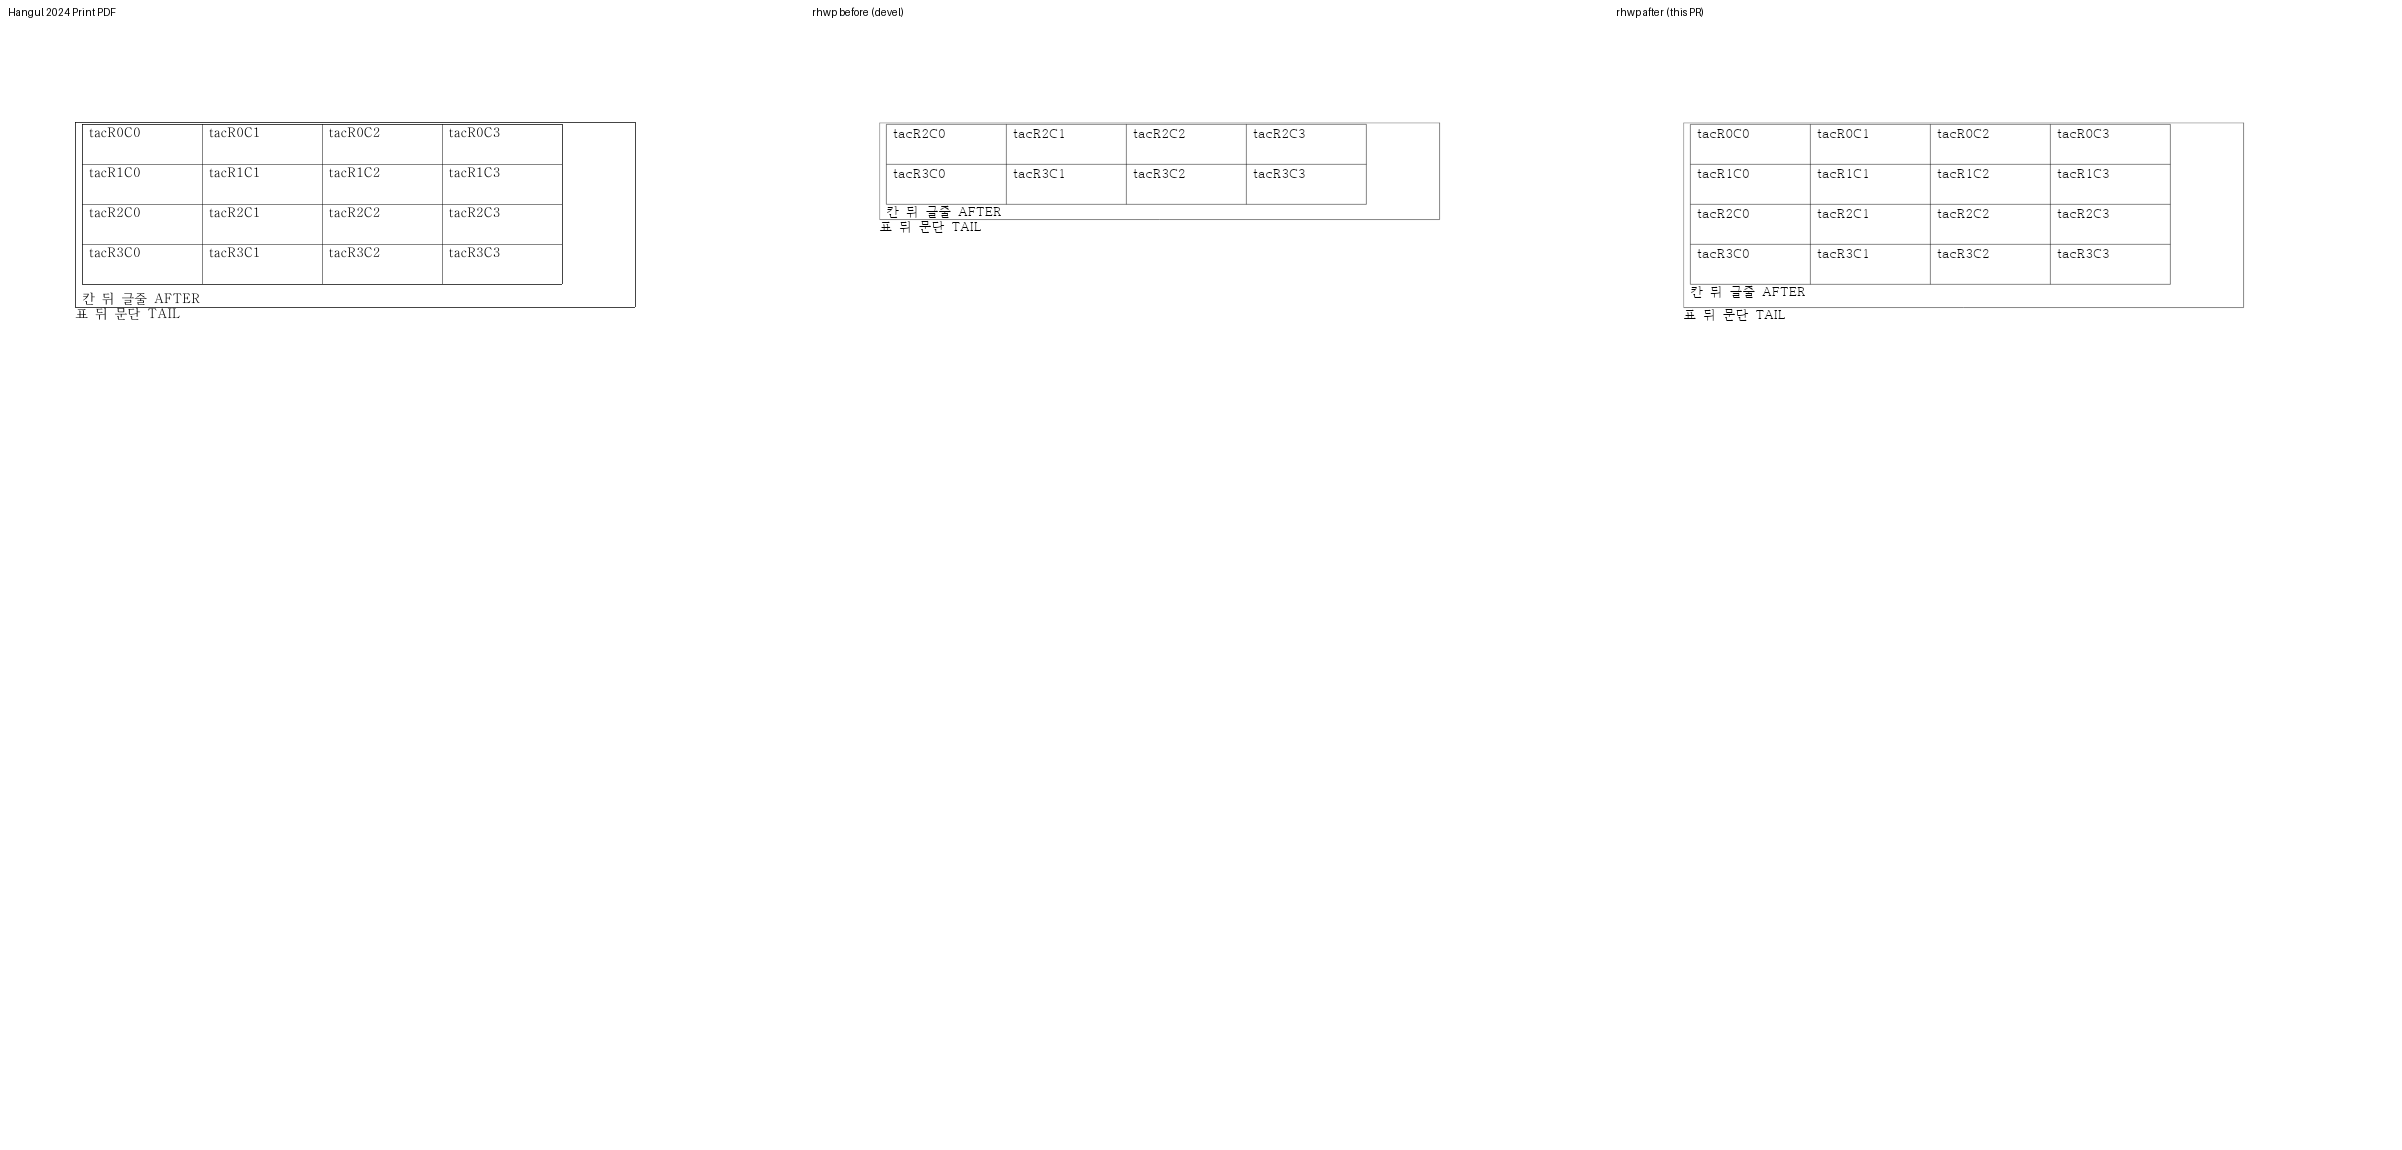
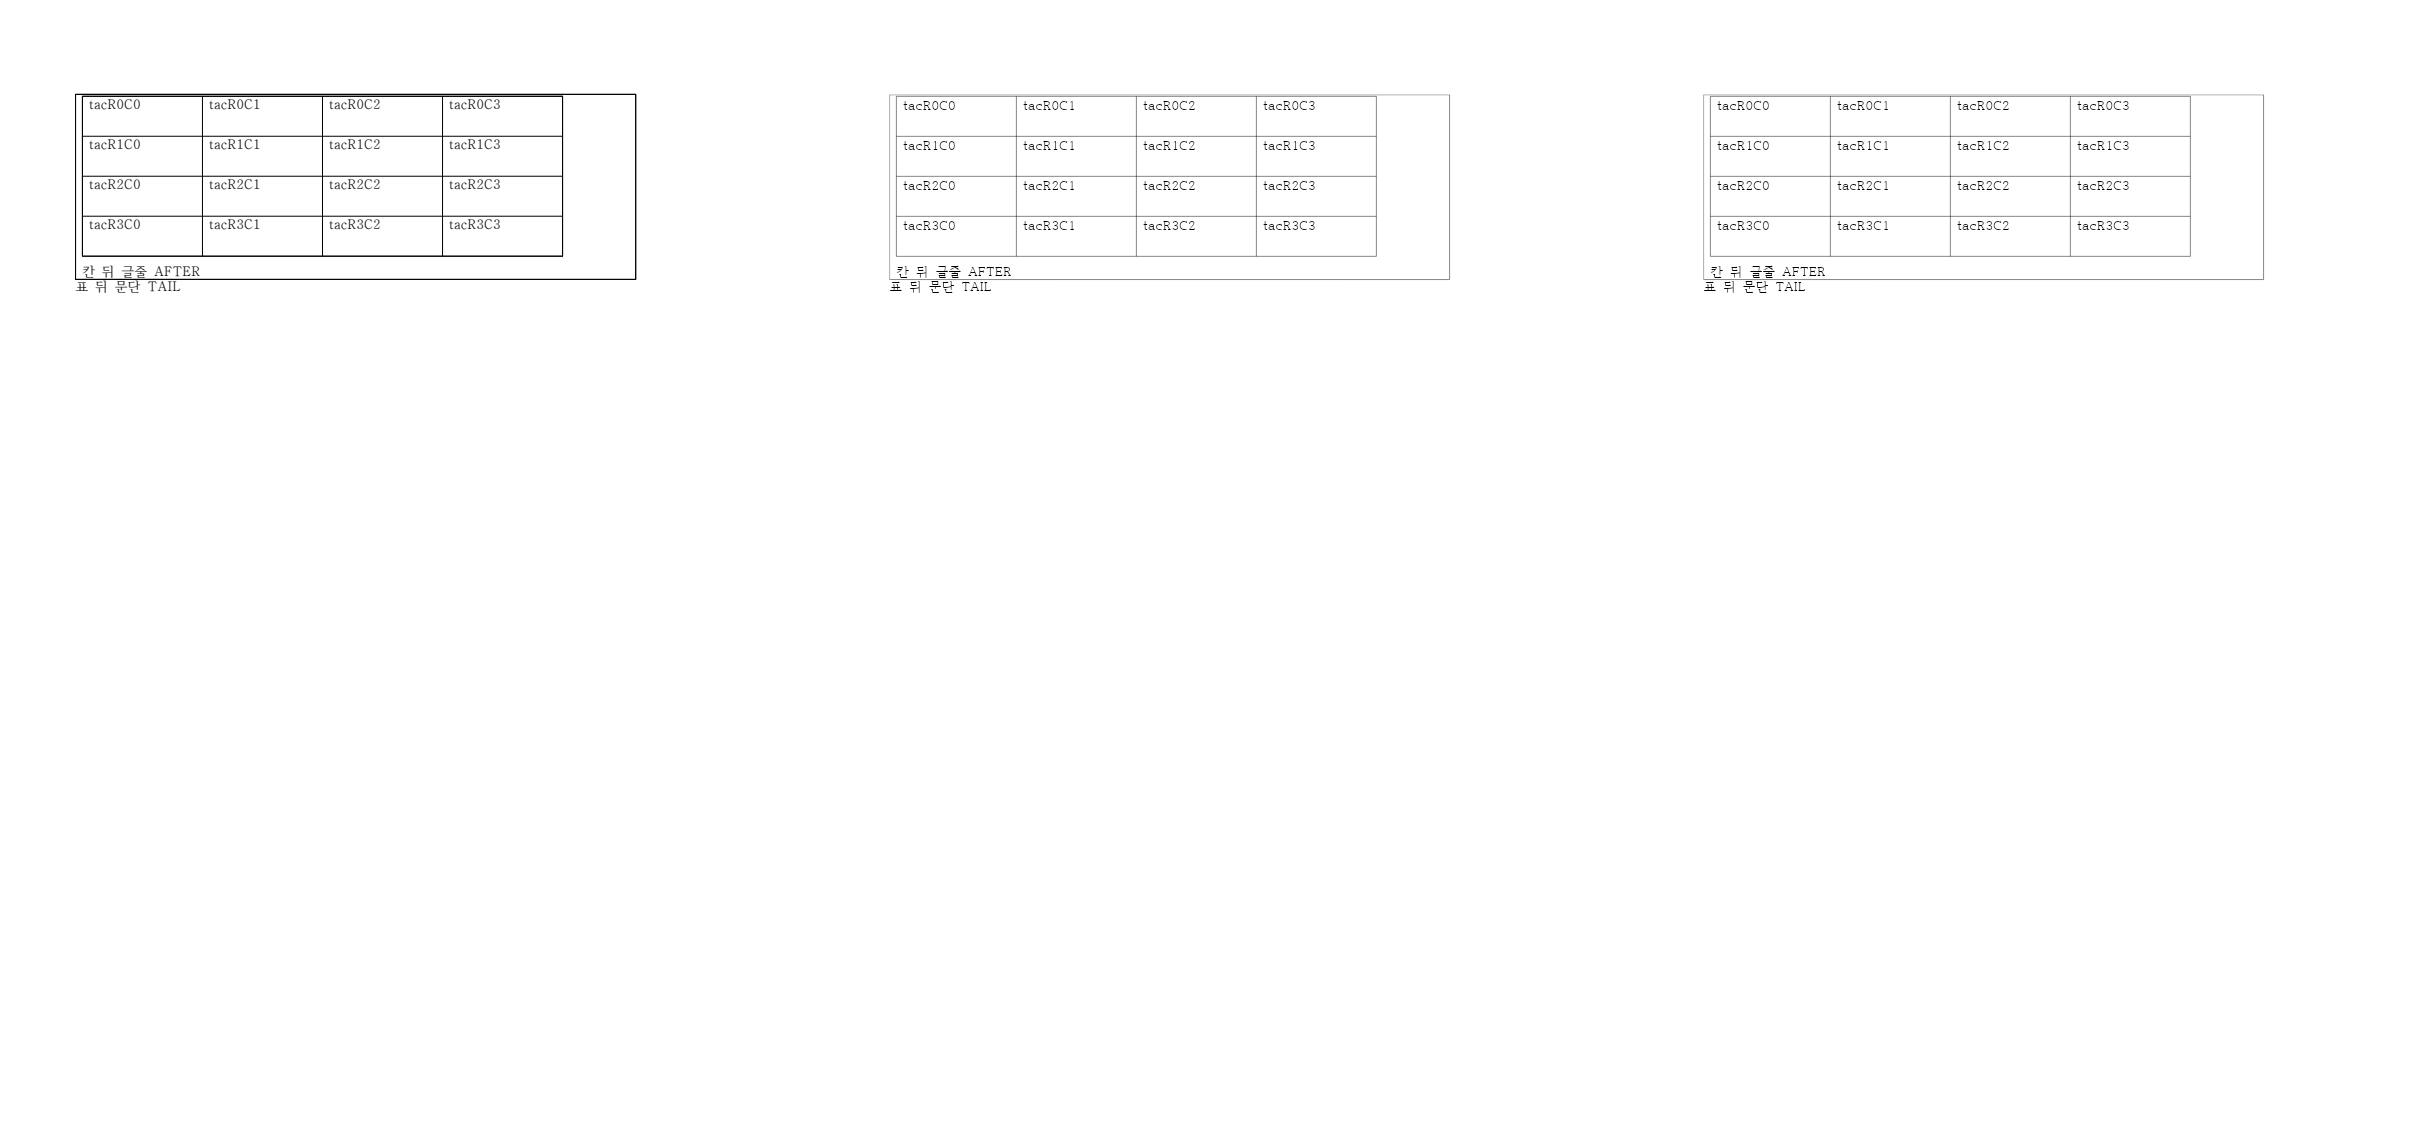
fix: 쪽 경계에서 나뉜 재조판 행의 첫 조각은 선언 행 높이를 차지
한/글 2024 는 내용이 선언보다 큰 재조판 행이 쪽 경계에서 처음 나뉠 때
첫 조각을 min(쪽 남은 공간, 선언 행 높이)로 그리고, 이어받는 조각에는
남은 내용만 둔다(합성 tac_37 선언 20·40·80·120px 첫 조각이 그 높이,
160px 은 본문 바닥에서 멈춤). rhwp 는 첫 조각을 내용 높이로 닫아
tac_37 1쪽 바깥 칸이 8px 짧았다.

- reflow_row_declared_first_frame: 독립 최소가 없는 재조판 행의 선언 높이
- scan: 첫 조각 수용 높이를 선언 높이(남은 쪽 한도)까지 예약, 잔여 띠는 넘기지 않음
- paint: 그 예약 높이를 수용 행 상자 소유로 보아 접지 않음
- 선언이 내용 전체보다 큰 행은 기존 독립 최소 갈래가 소유하므로 제외

diff --git a/tests/cases/issue_7870_tac_nested_table_atomic.rs b/tests/cases/issue_7870_tac_nested_table_atomic.rs
@@ -70,6 +70,72 @@ fn tac_nested_table_moves_whole_line_to_next_page() {
     );
 }
 
+/// 바깥 1×1 표의 저장 선언 행 높이(`hp:cellSz` height, HWPUNIT).
+fn declared_outer_row_height_hu(sample: &str) -> f64 {
+    use std::io::Read;
+    let path = std::path::Path::new(env!("CARGO_MANIFEST_DIR")).join(sample);
+    let mut zip = zip::ZipArchive::new(std::fs::File::open(path).expect("open")).expect("zip");
+    let mut xml = String::new();
+    zip.by_name("Contents/section0.xml")
+        .expect("section0")
+        .read_to_string(&mut xml)
+        .expect("utf-8");
+    // 바깥 칸은 본문 폭(42000)이고 중첩 표 칸은 9000 이다.
+    let cell_size = xml
+        .find("<hp:cellSz width=\"42000\"")
+        .expect("바깥 칸 크기");
+    let height = &xml[cell_size..];
+    let start = height.find("height=\"").unwrap() + 8;
+    let end = start + height[start..].find('"').unwrap();
+    height[start..end].parse().unwrap()
+}
+
+/// 쪽마다 바깥 1×1 표 칸 조각의 (위, 높이).
+fn outer_cell_fragments(sample: &str) -> Vec<Option<(f64, f64)>> {
+    let path = std::path::Path::new(env!("CARGO_MANIFEST_DIR")).join(sample);
+    let doc = HwpDocument::from_bytes(&std::fs::read(&path).expect("read")).expect("표본 파싱");
+    fn find(node: &Value) -> Option<(f64, f64)> {
+        if node["type"] == "Table" && node["rows"] == 1 && node["cols"] == 1 {
+            let cell = node["children"]
+                .as_array()?
+                .iter()
+                .find(|child| child["type"] == "Cell")?;
+            return Some((
+                cell["bbox"]["y"].as_f64()?,
+                cell["bbox"]["h"].as_f64()?,
+            ));
+        }
+        node["children"].as_array()?.iter().find_map(find)
+    }
+    (0..doc.page_count())
+        .map(|page| {
+            let tree: Value =
+                serde_json::from_str(&doc.get_page_render_tree(page).unwrap()).unwrap();
+            find(&tree)
+        })
+        .collect()
+}
+
+#[test]
+fn split_reflow_row_first_fragment_takes_declared_row_height() {
+    // 한/글 2024 는 쪽 경계에서 나뉜 재조판 행의 첫 조각을 min(쪽 남은 공간, 선언 행 높이)로
+    // 그린다(tac_37 첫 조각 = 선언 3000 HU). 첫 조각의 내용은 칸 앞 글줄 하나뿐이라
+    // 수정 전 rhwp 는 내용 높이(약 32px)로 줄여 그렸다. 이어지는 조각은 남은 내용만 갖는다.
+    let sample = "samples/issue7870/tac_37.hwpx";
+    let declared_px = declared_outer_row_height_hu(sample) * 96.0 / 7200.0;
+    let fragments = outer_cell_fragments(sample);
+    let (_, first_height) = fragments[0].expect("1쪽 바깥 칸 첫 조각");
+    assert!(
+        (first_height - declared_px).abs() <= 0.5,
+        "첫 조각 높이 {first_height:.2}px 는 선언 행 높이 {declared_px:.2}px 여야 한다"
+    );
+    let (_, rest_height) = fragments[1].expect("2쪽 바깥 칸 이어지는 조각");
+    assert!(
+        rest_height > declared_px,
+        "이어지는 조각({rest_height:.2}px)은 중첩 표 전체를 담는다"
+    );
+}
+
 #[test]
 fn floating_nested_table_still_splits_between_rows() {
     let pages = markers_by_page("samples/issue7870/flow_37.hwpx");

diff --git a/src/renderer/typeset/table/scan/runner/row_step.rs b/src/renderer/typeset/table/scan/runner/row_step.rs
@@ -1538,6 +1538,28 @@ impl TypesetEngine {
                 }
             }
         }
+        // [#7870] 내용이 선언보다 커서 독립 최소가 없는 재조판 행도, 쪽 경계에서 처음
+        // 나뉘는 첫 조각은 선언 행 높이(남은 쪽 한도)를 차지한다. 이어받는 조각은 남은
+        // 내용만 소유하므로 잔여 띠는 넘기지 않는다(emit 의 재조판 잔여 갈래는 최소가
+        // 없으면 넘기지 않는다).
+        if !keep_scanning
+            && !owns_plain_row_frame
+            && end_row_height_override.is_none()
+            && split_end_limit > 0.0
+            && split_block_start.is_none()
+            && end_row == scan_start_row + 1
+            && (scan_start_row != cursor_row || start_cut.is_empty())
+        {
+            let accepted_height = consumed - consumed_before_row - cs_before;
+            let available = (avail_for_rows - consumed_before_row - cs_before).max(0.0);
+            if let Some(declared) = layout_engine.reflow_row_declared_first_frame(table, scan_start_row, styles) {
+                let frame_height = declared.min(available);
+                if accepted_height > 0.0 && frame_height > accepted_height + 0.5 {
+                    consumed += frame_height - accepted_height;
+                    end_row_height_override = Some(frame_height);
+                }
+            }
+        }
         // 높이를 다시 추정하지 않고 이번 일반 행이 실제 수용한 증분을 보존한다.
         // 다음 행을 이월한 경우에는 앞서 수용한 행의 결과를 그대로 유지한다.
         if end_row > scan_start_row {

diff --git a/src/renderer/layout/table_layout.rs b/src/renderer/layout/table_layout.rs
@@ -25542,6 +25542,32 @@ impl LayoutEngine {
             .reduce(f64::max)
     }
 
+    /// [#7870] 재조판 행이 쪽 경계에서 처음 나뉠 때 첫 조각이 차지하는 선언 높이.
+    /// 한/글 2024 는 칸 내용이 선언보다 커도 첫 조각을 `min(남은 쪽, 선언 행 높이)` 로
+    /// 그리고 이어받는 조각에는 남은 내용만 둔다(합성 tac_37, 선언 20·40·80·120px 의
+    /// 첫 조각이 그 높이, 160·267px 은 본문 바닥에서 멈춤, 둘째 조각은 모두 같음).
+    /// 내용 전체보다 큰 독립 최소(`reflow_row_physical_minimum`)와 달리 잔여를 넘기지 않는다.
+    /// 독립 최소가 있는 행은 그 갈래가 첫 조각·잔여 띠·물리 꼬리를 함께 소유하므로 제외한다.
+    pub(crate) fn reflow_row_declared_first_frame(
+        &self,
+        table: &crate::model::table::Table,
+        row: usize,
+        styles: &ResolvedStyleSet,
+    ) -> Option<f64> {
+        if !self.row_uses_reflow_physical_frame(table, row)
+            || self.reflow_row_physical_minimum(table, row, styles).is_some()
+        {
+            return None;
+        }
+        table
+            .cells
+            .iter()
+            .filter(|cell| cell.row as usize == row && cell.row_span == 1)
+            .filter(|cell| cell.height < 0x8000_0000)
+            .map(|cell| hwpunit_to_px(cell.height as i32, self.dpi))
+            .reduce(f64::max)
+    }
+
     /// 분할 행의 컷 범위에 속하는 내용과 셀 패딩의 높이. 온전한 행은 선언 높이도 보존한다.
     pub(crate) fn row_cut_content_height(
         &self,

diff --git a/src/renderer/layout/table_partial.rs b/src/renderer/layout/table_partial.rs
@@ -6619,6 +6619,11 @@ impl LayoutEngine {
                             |minimum| end_row_height_override.is_some_and(|height| height <= minimum + 0.5),
                         ))
                         && self.row_has_plain_reflow_line_units(table, row, styles))
+                    // [#7870] scan 이 재조판 행 첫 조각에 예약한 선언 행 높이도 같은 소유다.
+                    || (!(is_continuation && row == start_row)
+                        && self.reflow_row_declared_first_frame(table, row, styles).is_some_and(
+                            |declared| end_row_height_override.is_some_and(|height| height <= declared + 0.5),
+                        ))
                     || (self.profile.get().hwpx_stored_layout()
                         && self
                             .stored_full_width_row_declared_height(
